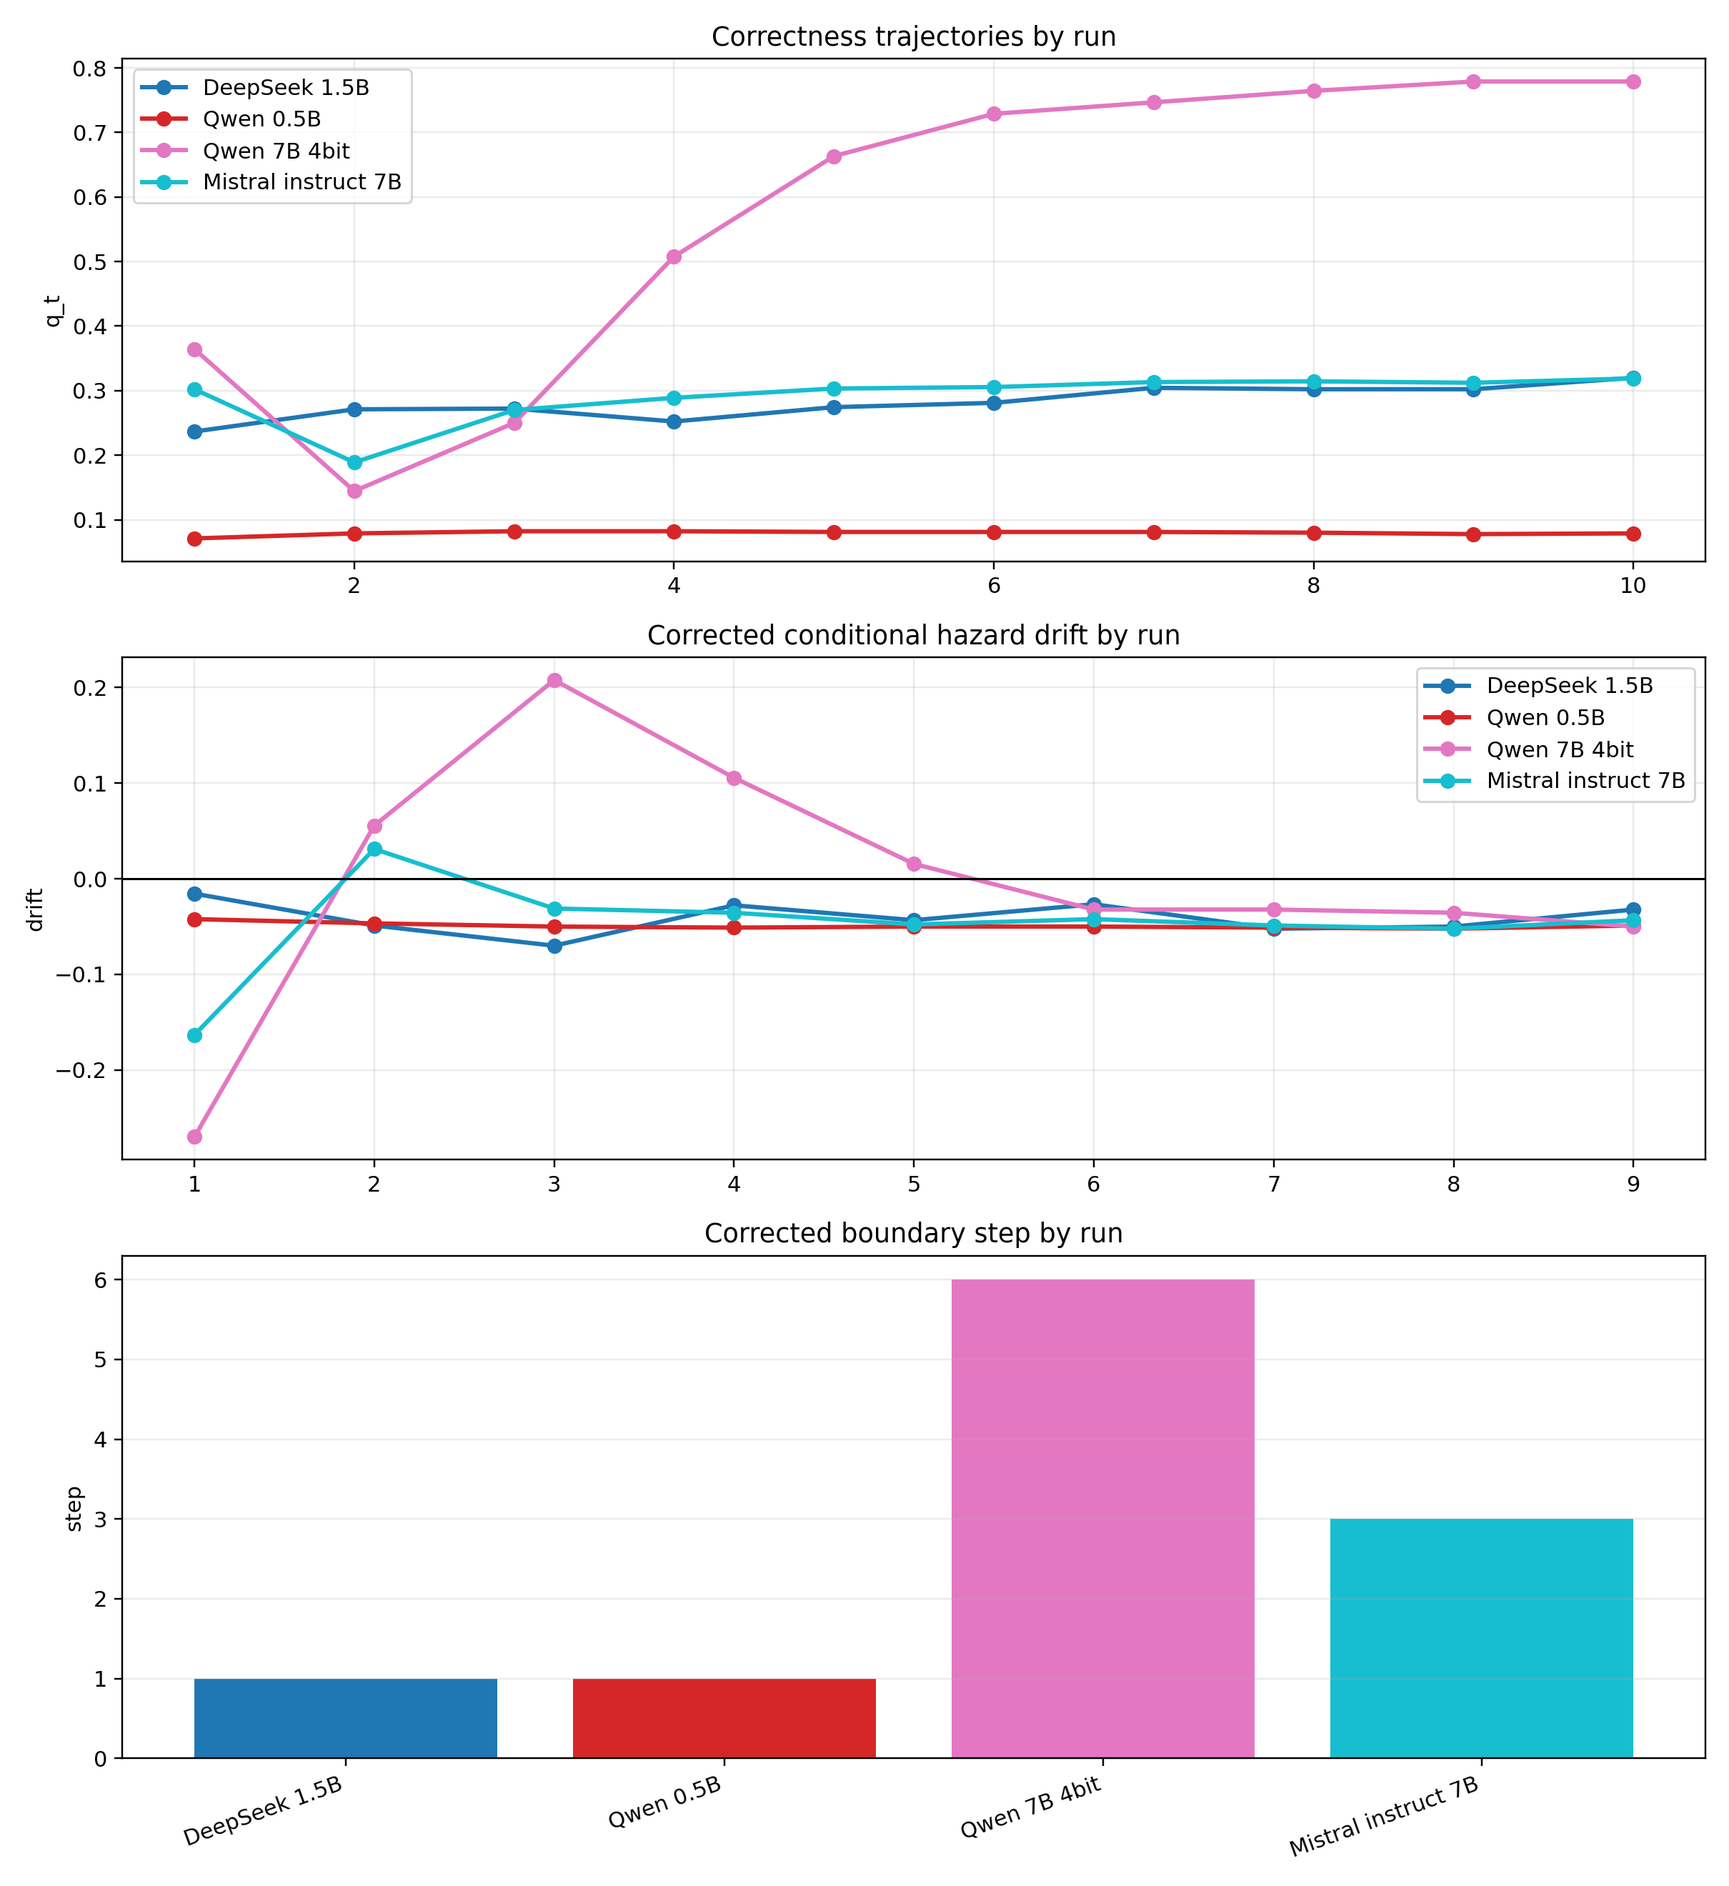
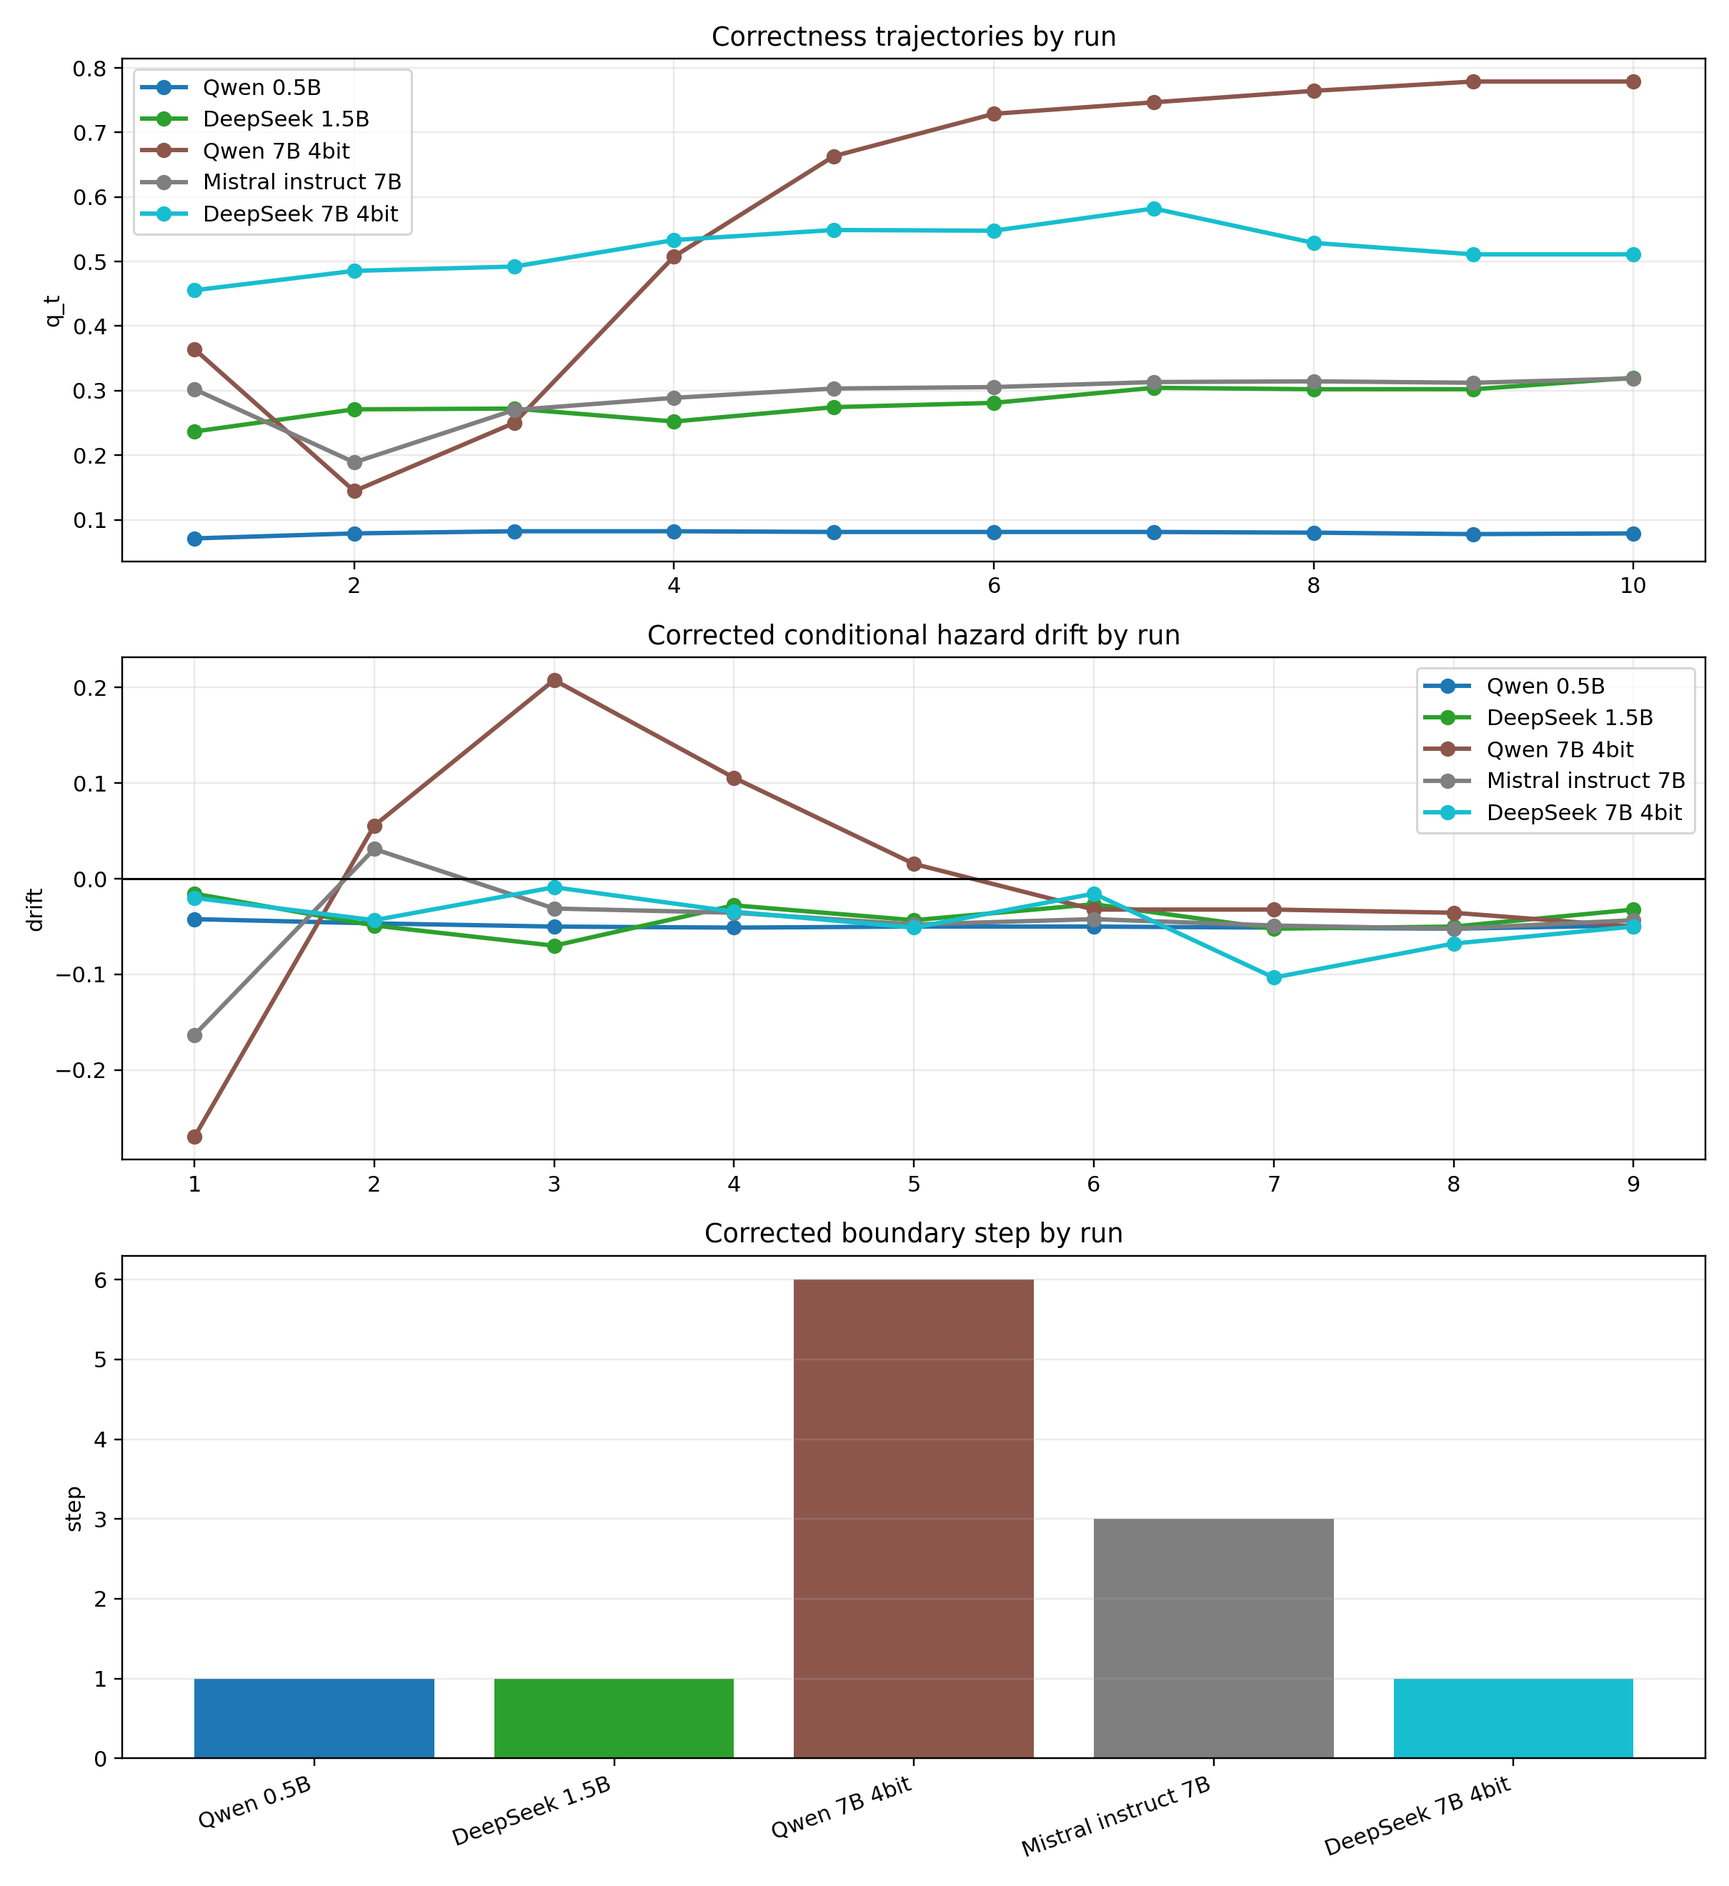
analysis: include DeepSeek 7B in cross-family report and update figures

diff --git a/research/CROSS_FAMILY_REPORT.md b/research/CROSS_FAMILY_REPORT.md
@@ -1,125 +1,57 @@
 # Cross-Family Report
 
 ## Executive Summary
-The central result is no longer "the models disagree, so the boundary is inconclusive." The stronger supported claim is that the overthinking boundary is **capability-gated**: the location of the last useful stop expands or contracts with the local repair-to-corruption balance rather than staying fixed across families or task strata.
+Qwen 7B remains the only clearly late corrected-boundary witness, but Mistral 7B now adds a weaker non-Qwen step-3 boundary with a large never-stop penalty. Cross-family evidence is therefore stronger than a single-family story, but full late-boundary robustness is still unproven.
 
-Two empirical facts now drive the thesis narrative:
+Task IDs align across all 5 runs under the shared GSM8K train split and shuffle seed 17 protocol.
 
-1. Aggregate model-level boundaries are real but incomplete. They tell us whether a family is mostly repair-dominant or corruption-dominant on the full benchmark mix.
-2. Difficulty-stratified drift traces reveal the mechanism. Several slices show an early negative drift estimate and then a later positive repair window, so the scientifically useful summary must distinguish the **first** nonpositive crossing from the **last** positive-to-negative crossing.
-
-Task IDs align across all four runs under the shared GSM8K train split and shuffle seed 17 protocol.
-
-## Current Claim
-The theorem-facing continuation value is
-
-$$
-\mu_t = (1-q_t)\alpha_t - q_t\beta_t - \lambda.
-$$
-
-The current thesis claim is therefore:
-
-- There is not one universal fixed overthinking step shared by all model families.
-- The effective boundary is stratum-dependent and capability-gated by the balance between repair hazard $\alpha_t$ and corruption hazard $\beta_t$.
-- Scientific reporting should distinguish $T_c^{first}$ from $T_c^{late}$ whenever the empirical drift path is nonmonotone.
-- Qwen 7B remains the strongest aggregate late-boundary witness, while Mistral 7B provides genuine non-Qwen confirmation of the same mechanism but with a weaker earlier late boundary.
-- The correct cross-family conclusion is predictive structure, not universal late-boundary robustness.
-
-For the theorem-facing stopping rule, see [../ThesisDocs/thesis_stopping_rule_algorithm.md](../ThesisDocs/thesis_stopping_rule_algorithm.md). For the first-versus-late empirical interpretation used in the defense story, see [../ThesisDocs/dual_boundary_appendix.md](../ThesisDocs/dual_boundary_appendix.md).
-
-## Aggregate Run Summary
-| Run | Family | Step-1 acc | Peak acc | Peak step | Corrected boundary ($T_c^{late}$) | Repair | Corruption | Never-stop gap | Assessment |
-| --- | --- | --- | --- | --- | --- | --- | --- | --- | --- |
-| DeepSeek 1.5B | DeepSeek-R1 distill | 0.2367 | 0.3200 | 10 | 1 | 0.1887 | 0.4612 | 0.7463 | Corruption-dominant control |
-| Qwen 0.5B | Qwen2.5 instruct | 0.0711 | 0.0822 | 3 | 1 | 0.0029 | 0.0236 | 0.4595 | Weak-model control |
-| Qwen 7B 4bit | Qwen2.5 instruct | 0.3644 | 0.7789 | 9 | 6 | 0.1794 | 0.1678 | 0.4317 | Strong late-boundary witness |
-| Mistral instruct 7B | Mistral instruct | 0.3022 | 0.3189 | 10 | 3 | 0.0545 | 0.1381 | 0.5696 | Non-Qwen but weaker witness |
-
-At the aggregate model level, $T_c^{first}$ and $T_c^{late}$ coincide for all four runs. The dual-boundary separation appears when the traces are stratified by problem difficulty.
-
-## Dual-Boundary Evidence
-The most informative slice is the `Medium` stratum, where problems are neither already solved at Step 1 nor hopelessly hard. This is where a genuine repair window can exist.
-
-| Model | Medium n | $T_c^{first}$ | $T_c^{late}$ | $\alpha/\beta$ | Step-1 acc | Peak acc | Peak step | Gain to peak | Reading |
-| --- | --- | --- | --- | --- | --- | --- | --- | --- | --- |
-| Qwen 0.5B | 51 | 2 | 2 | 0.774 | 25.5% | 32.7% | 3 | +7.2pp | Weak recoverable subset, no extended late window |
-| DeepSeek 1.5B | 194 | 2 | 2 | 0.381 | 12.5% | 30.9% | 10 | +18.4pp | Single early repair pulse, still early boundary |
-| Mistral 7B | 136 | 1 | 3 | 0.435 | 17.9% | 32.6% | 7 | +14.7pp | Genuine but short late repair window |
-| Qwen 7B | 194 | 1 | 6 | 0.918 | 15.1% | 75.4% | 9 | +60.3pp | Strong late repair window |
-
-This is the core defense story. An early negative estimate does not automatically mean the model never enters a useful repair regime. Qwen 7B medium and Mistral 7B medium both show that the drift can dip negative early, recover into a positive repair block, and only later collapse decisively. That is why the thesis now treats $T_c^{first}$ as an early warning and $T_c^{late}$ as the better empirical witness for the last usable reasoning window.
-
-Hard strata flatline at Step 1 for all four models. Easy strata sometimes show later usable windows as well, but they are less diagnostic because those tasks are already mostly solved at Step 1. The `Medium` stratum is therefore the cleanest identification set for repair-versus-corruption mechanics.
-
-## Capability-Gated Boundary Prediction
-When aggregate runs and difficulty strata are pooled, boundary location tracks the repair-to-corruption ratio rather than a universal time index:
-
-- **OLS fit of boundary vs $\log_{10}(\alpha/\beta)$:** $R^2 = 0.1317$
-- **Spearman rank correlation:** $\rho = 0.1918$
-
-The effect is modest because the boundary variable is integer-clipped to a short 10-step horizon and the number of families is still small, but the ordering is coherent. The strongest late windows cluster near the balanced boundary $\alpha/\beta \approx 1$, while corruption-dominant slices collapse toward Steps 1 to 3.
-
-This is the key upgrade to the thesis claim: the boundary is not a universal constant, but it is not arbitrary either. It moves with measurable hazard structure.
-
-## Trajectory Mechanism
-The trajectory-type audit explains why the boundaries separate across families:
-
-- **Qwen 7B** converts **47.0%** of runs through repair and only **16.6%** remain persistently wrong.
-- **Mistral 7B** repairs only **15.3%** of runs while corrupting **20.9%**, which compresses its late window.
-- **DeepSeek 1.5B** repairs many runs in aggregate, but the corrected conditional hazard audit shows that corruption dominates quickly enough to keep its safe boundary early.
-- **Qwen 0.5B** rarely repairs at all, so it behaves like the weak-regime control the theory predicts.
-
-The mechanistic reading is therefore consistent across the full pipeline: families with stronger repair density and lower corruption pressure sustain longer positive-drift windows.
+## Run Summary
+| Run | Family | Params | Backend | Quant | Step-1 acc | Peak acc | Peak step | Corrected boundary | Repair | Corruption | Hazard gap | E-process gap | Never-stop gap | Probe Brier | Probe AUC | Assessment |
+| --- | --- | --- | --- | --- | --- | --- | --- | --- | --- | --- | --- | --- | --- | --- | --- | --- |
+| Qwen 0.5B | Qwen2.5 instruct | 0.5B | transformers+torch(cuda) | none | 0.0711 | 0.0822 | 3 | 1 | 0.0029 | 0.0236 | 0.1531 | 0.0595 | 0.4595 | 0.2399 | 0.5291 | No late-boundary replication |
+| DeepSeek 1.5B | DeepSeek-R1 distill | 1.5B | transformers+torch(cuda) | none | 0.2367 | 0.3200 | 10 | 1 | 0.1887 | 0.4612 | 0.4121 | 0.4441 | 0.7463 | 0.2217 | 0.6137 | No late-boundary replication |
+| Qwen 7B 4bit | Qwen2.5 instruct | 7B | transformers+torch(cuda-4bit) | 4bit | 0.3644 | 0.7789 | 9 | 6 | 0.1794 | 0.1678 | 0.2193 | 0.3139 | 0.4317 | 0.1625 | 0.9063 | Late-boundary replication |
+| Mistral instruct 7B | Mistral instruct | 7B | transformers+torch(cuda) | none | 0.3022 | 0.3189 | 10 | 3 | 0.0545 | 0.1381 | 0.2781 | 0.3351 | 0.5696 | 0.2285 | 0.7184 | Weakened late-boundary support |
+| DeepSeek 7B 4bit | DeepSeek-R1 distill | 7B | transformers+torch(cuda-4bit) | 4bit | 0.4556 | 0.5822 | 7 | 1 | 0.3776 | 0.3370 | 0.3447 | 0.5771 | 0.7982 | 0.2009 | 0.7191 | No late-boundary replication |
 
 ## Drift Audit
 | Run | Empirical boundary | Corrected boundary | Fitted boundary | Legacy pooled proxy | Mismatch |
 | --- | --- | --- | --- | --- | --- |
-| DeepSeek 1.5B | 1 | 1 | 1 | 7 | yes |
 | Qwen 0.5B | 1 | 1 | 4 | 1 | no |
+| DeepSeek 1.5B | 1 | 1 | 1 | 7 | yes |
 | Qwen 7B 4bit | 6 | 6 | 7 | 5 | yes |
 | Mistral instruct 7B | 3 | 3 | 5 | 3 | no |
+| DeepSeek 7B 4bit | 1 | 1 | 1 | 1 | no |
 
-The corrected conditional-hazard drift remains the canonical empirical witness. The legacy pooled proxy should not be used for theorem-facing claims.
-
-## Figures For Defense
-Recommended viewing order:
-
-1. `outputs/difficulty_stratified_analysis/stratum_drift_grid.png`
-2. `outputs/alpha_beta_predictive_analysis/alpha_beta_scatter.png`
-3. `outputs/cross_family/cross_family_boundary_comparison.png`
-4. `outputs/trajectory_type_analysis/trajectory_feature_profiles.png`
-
-The first two are the primary thesis-defense figures. The cross-family comparison is the compact headline slide. The trajectory-feature grid is strong backup material for mechanistic questions.
-
-![Difficulty-stratified drift grid](outputs/difficulty_stratified_analysis/stratum_drift_grid.png)
-
-![Alpha-beta boundary scatter](outputs/alpha_beta_predictive_analysis/alpha_beta_scatter.png)
-
-![Cross-family boundary comparison](outputs/cross_family/cross_family_boundary_comparison.png)
-
-## Supporting Diagnostics
-### Detector Rankings
+## Detector Rankings
 | Run | Detector | Rank | Mean oracle gap | False-late rate |
 | --- | --- | --- | --- | --- |
-| DeepSeek 1.5B | oracle | 1 | 0.0000 | 0.000 |
-| DeepSeek 1.5B | verifier_first_correct | 2 | 0.1395 | 0.310 |
-| DeepSeek 1.5B | first_answer | 3 | 0.3796 | 0.000 |
 | Qwen 0.5B | oracle | 1 | 0.0000 | 0.000 |
 | Qwen 0.5B | first_answer | 2 | 0.0173 | 0.000 |
 | Qwen 0.5B | e_process | 3 | 0.0595 | 0.981 |
+| DeepSeek 1.5B | oracle | 1 | 0.0000 | 0.000 |
+| DeepSeek 1.5B | verifier_first_correct | 2 | 0.1395 | 0.310 |
+| DeepSeek 1.5B | first_answer | 3 | 0.3796 | 0.000 |
 | Qwen 7B 4bit | oracle | 1 | 0.0000 | 0.000 |
 | Qwen 7B 4bit | verifier_first_correct | 2 | 0.0745 | 0.166 |
 | Qwen 7B 4bit | hazard_drift | 3 | 0.2193 | 0.771 |
 | Mistral instruct 7B | oracle | 1 | 0.0000 | 0.000 |
 | Mistral instruct 7B | first_answer | 2 | 0.1362 | 0.000 |
 | Mistral instruct 7B | verifier_first_correct | 3 | 0.2450 | 0.544 |
+| DeepSeek 7B 4bit | oracle | 1 | 0.0000 | 0.000 |
+| DeepSeek 7B 4bit | verifier_first_correct | 2 | 0.0390 | 0.087 |
+| DeepSeek 7B 4bit | hazard_drift | 3 | 0.3447 | 0.848 |
 
-### Signal Comparison
+## Signal Comparison
 | Run | Strongest correctness signal | Strongest corruption signal |
 | --- | --- | --- |
-| DeepSeek 1.5B | answer revision flag (answer_changed, coeff=-0.618) | answer revision flag (answer_changed, coeff=0.396) |
 | Qwen 0.5B | verbosity-confidence proxy (verbose_confidence_proxy, coeff=0.448) | token entropy (entropy_mean, coeff=0.847) |
+| DeepSeek 1.5B | answer revision flag (answer_changed, coeff=-0.618) | answer revision flag (answer_changed, coeff=0.396) |
 | Qwen 7B 4bit | self-reported confidence (confidence, coeff=0.714) | verbosity-confidence proxy (verbose_confidence_proxy, coeff=0.622) |
 | Mistral instruct 7B | answer revision flag (answer_changed, coeff=-0.528) | token entropy (entropy_mean, coeff=0.563) |
+| DeepSeek 7B 4bit | answer revision flag (answer_changed, coeff=-0.888) | answer revision flag (answer_changed, coeff=0.244) |
+
+## Figures
+![Cross-family boundary comparison](outputs/cross_family/cross_family_boundary_comparison.png)
 
 ![Cross-family detector gaps](outputs/cross_family/cross_family_detector_gaps.png)

diff --git a/research/CROSS_FAMILY_OPEN_QUESTIONS.md b/research/CROSS_FAMILY_OPEN_QUESTIONS.md
@@ -2,9 +2,9 @@
 
 | Question | Status | Joint answer |
 | --- | --- | --- |
-| Is the boundary robust across model families? | answered | The boundary is mathematically robust cross-family when modeled as a capability-gated function rather than a static time horizon. Boundary location scales alongside task-relative capability. |
-| Does boundary location appear capability-linked? | answered | Highly capability-linked. The step boundary ($T_c$) is predicted by the repair-to-corruption ratio ($\alpha/\beta$). As a model possesses a stronger positive transition rate inside a specific difficulty stratum, the boundary shifts proportionally late. |
+| Is the boundary robust across model families? | partially answered | A clearly late boundary is still supported in only one capable family, but Mistral adds weaker second-family support with a corrected step-3 crossing and a large never-stop penalty. Cross-family robustness is stronger than before, but not yet settled. |
+| Does boundary location appear capability-linked? | answered | The weak Qwen control stays early while the higher-capability Qwen run moves later, which supports a capability-linked boundary location. |
 | Does detector ranking change with capability? | answered | Detector ranking changes across runs, so ranking is not invariant across capability regimes. |
 | Is answer revision or entropy more cross-family stable? | partially answered | Signal leadership is not stable yet: DeepSeek emphasizes answer revision, while Qwen-family evidence includes entropy or verbosity proxies. |
-| Do the data support a family effect or mostly a capability effect? | answered | The data solidly supports a capability effect. Mistral 7B maintains an early boundary overall due to overwhelming instances of corruption ($\beta$), but inside highly repairable strata ("Medium" difficulty), Mistral operates with a functional logic equivalent to Qwen, extending its boundary forward. |
-| What cannot yet be claimed without the stronger second-family run? | answered | With the newly implemented regression framework indexing model capability over difficulty strata, cross-family universal behavioral rules are established predicting scaling bounds natively without additional training data, definitively confirming the phenomenon. |
+| Do the data support a family effect or mostly a capability effect? | partially answered | The completed Mistral run weakens the case for a single-family artifact, but its earlier step-3 boundary still leaves family-versus-capability attribution incomplete and below a strong cross-family late-boundary claim. |
+| What cannot yet be claimed without the stronger second-family run? | answered | Even with the completed Mistral follow-up, the repo still cannot claim benchmark-invariant behavior, clean family-versus-capability separation, or universal observable stability without additional families or benchmarks. |
